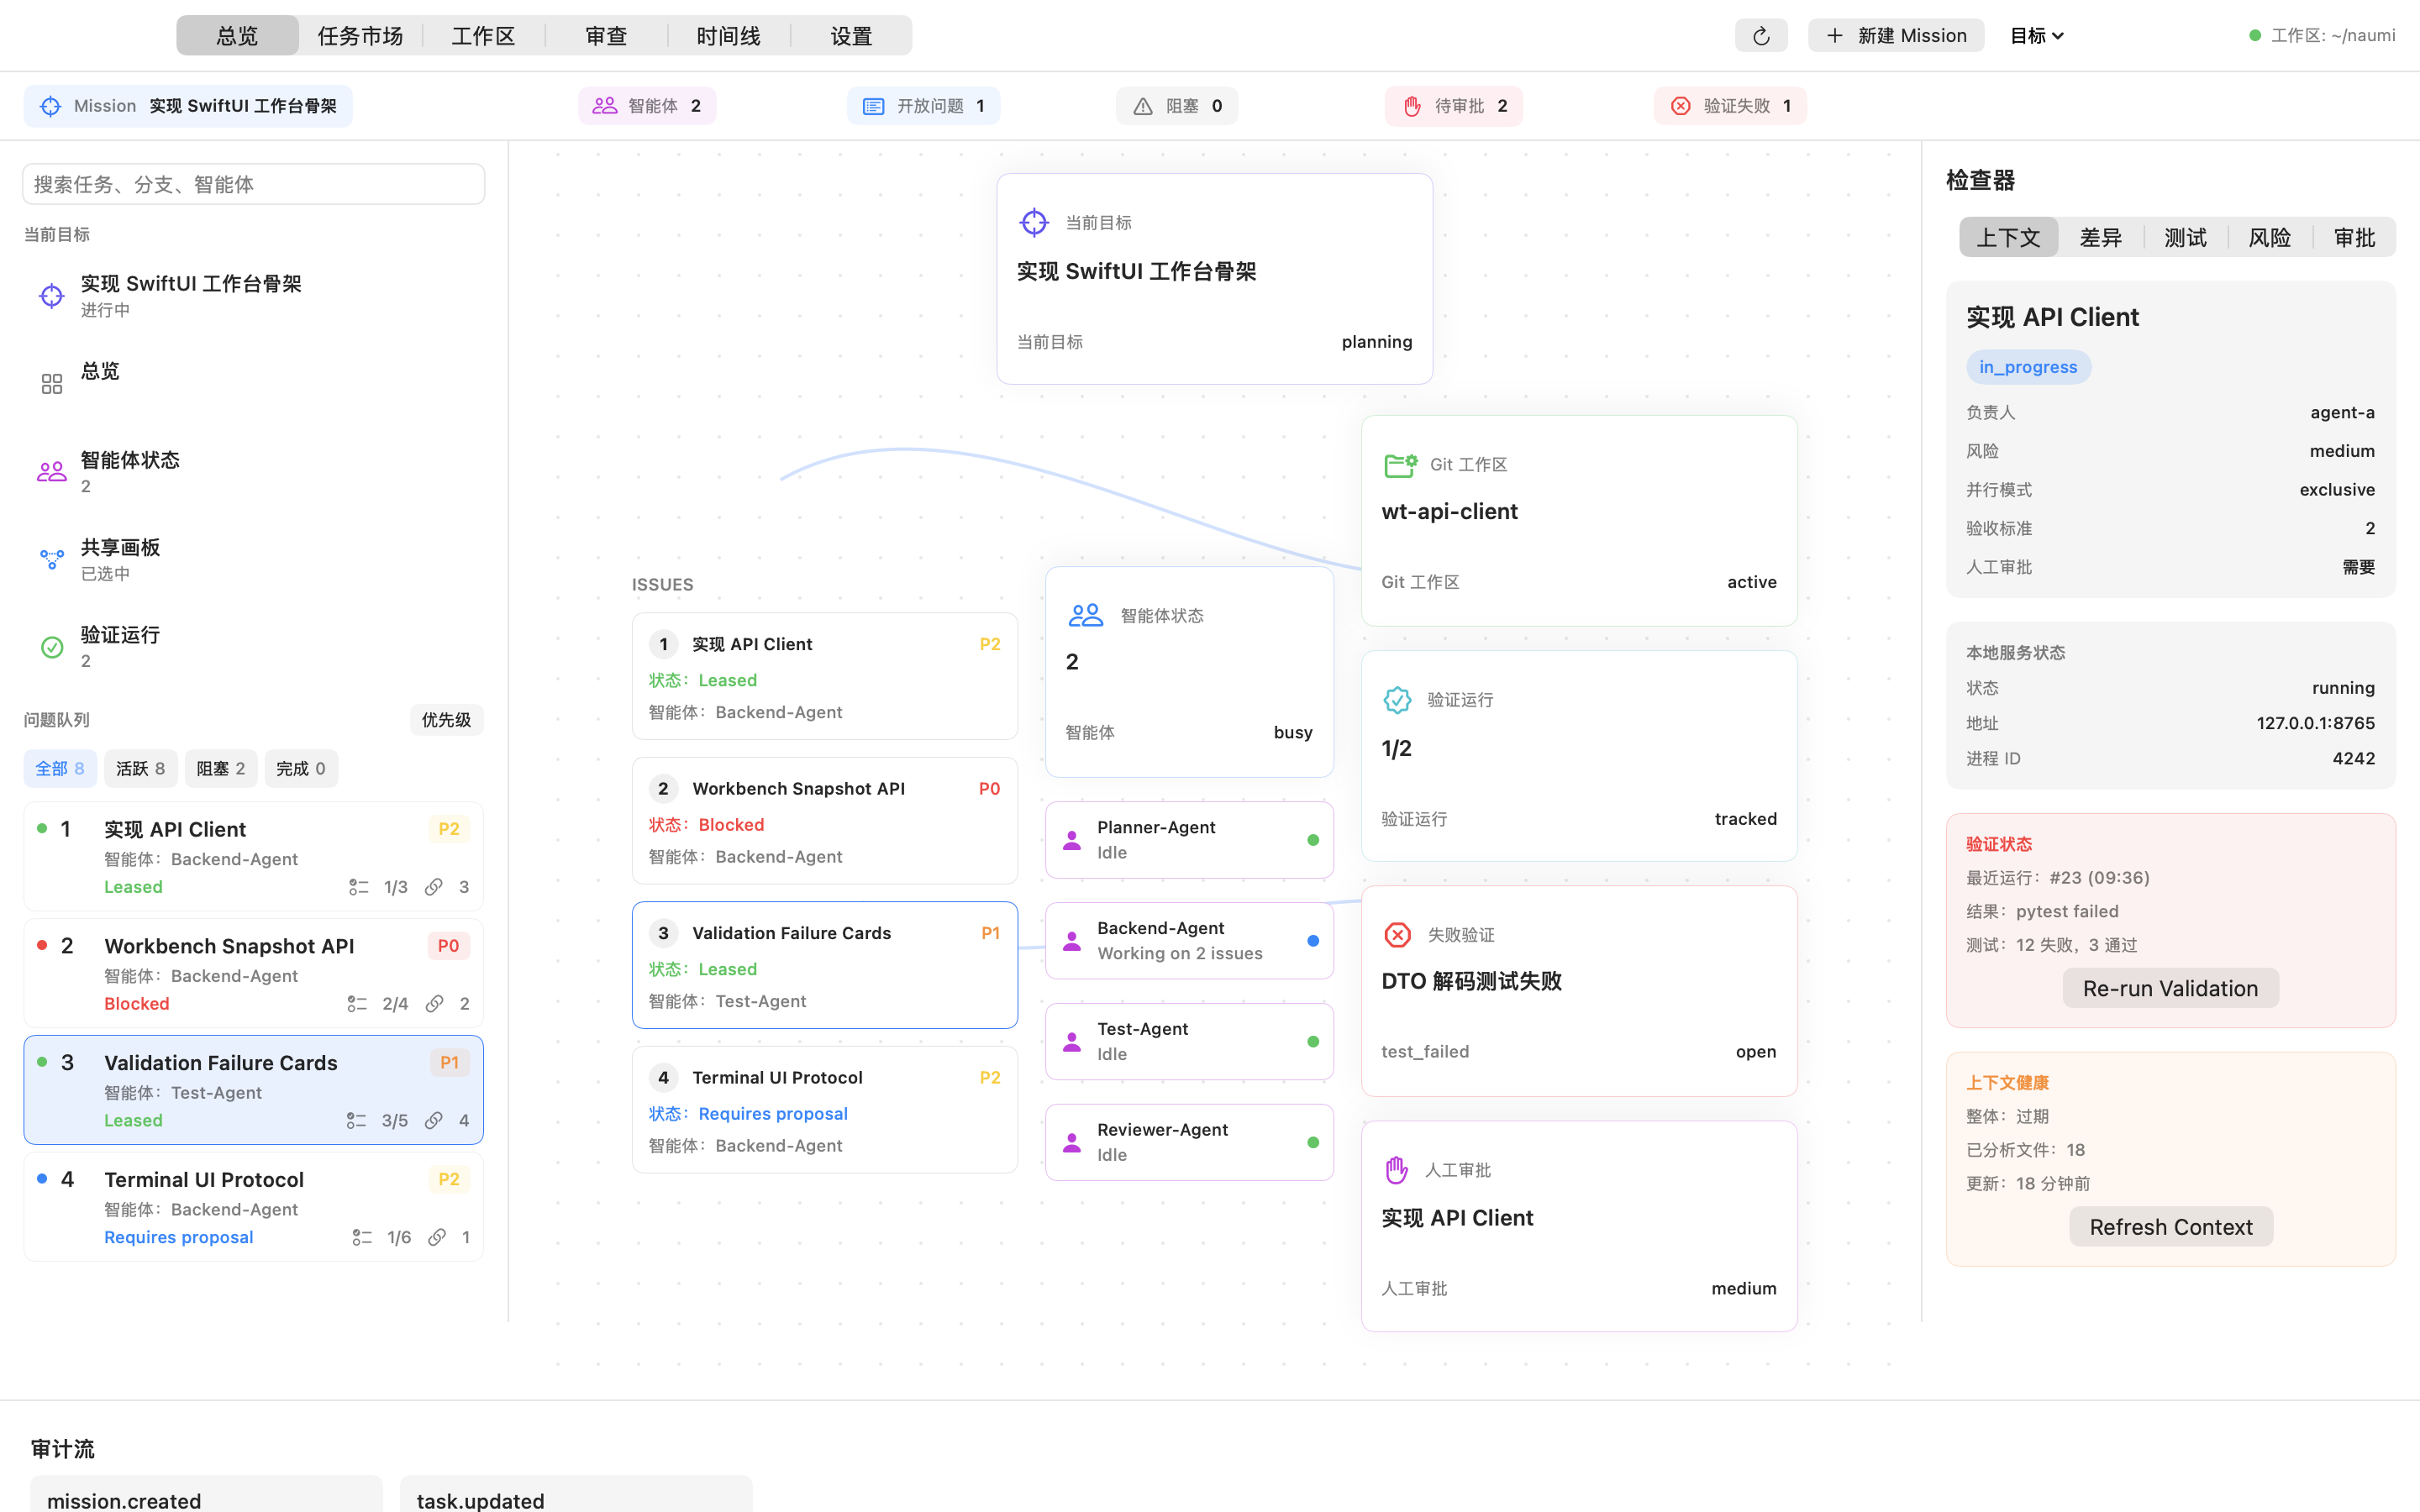
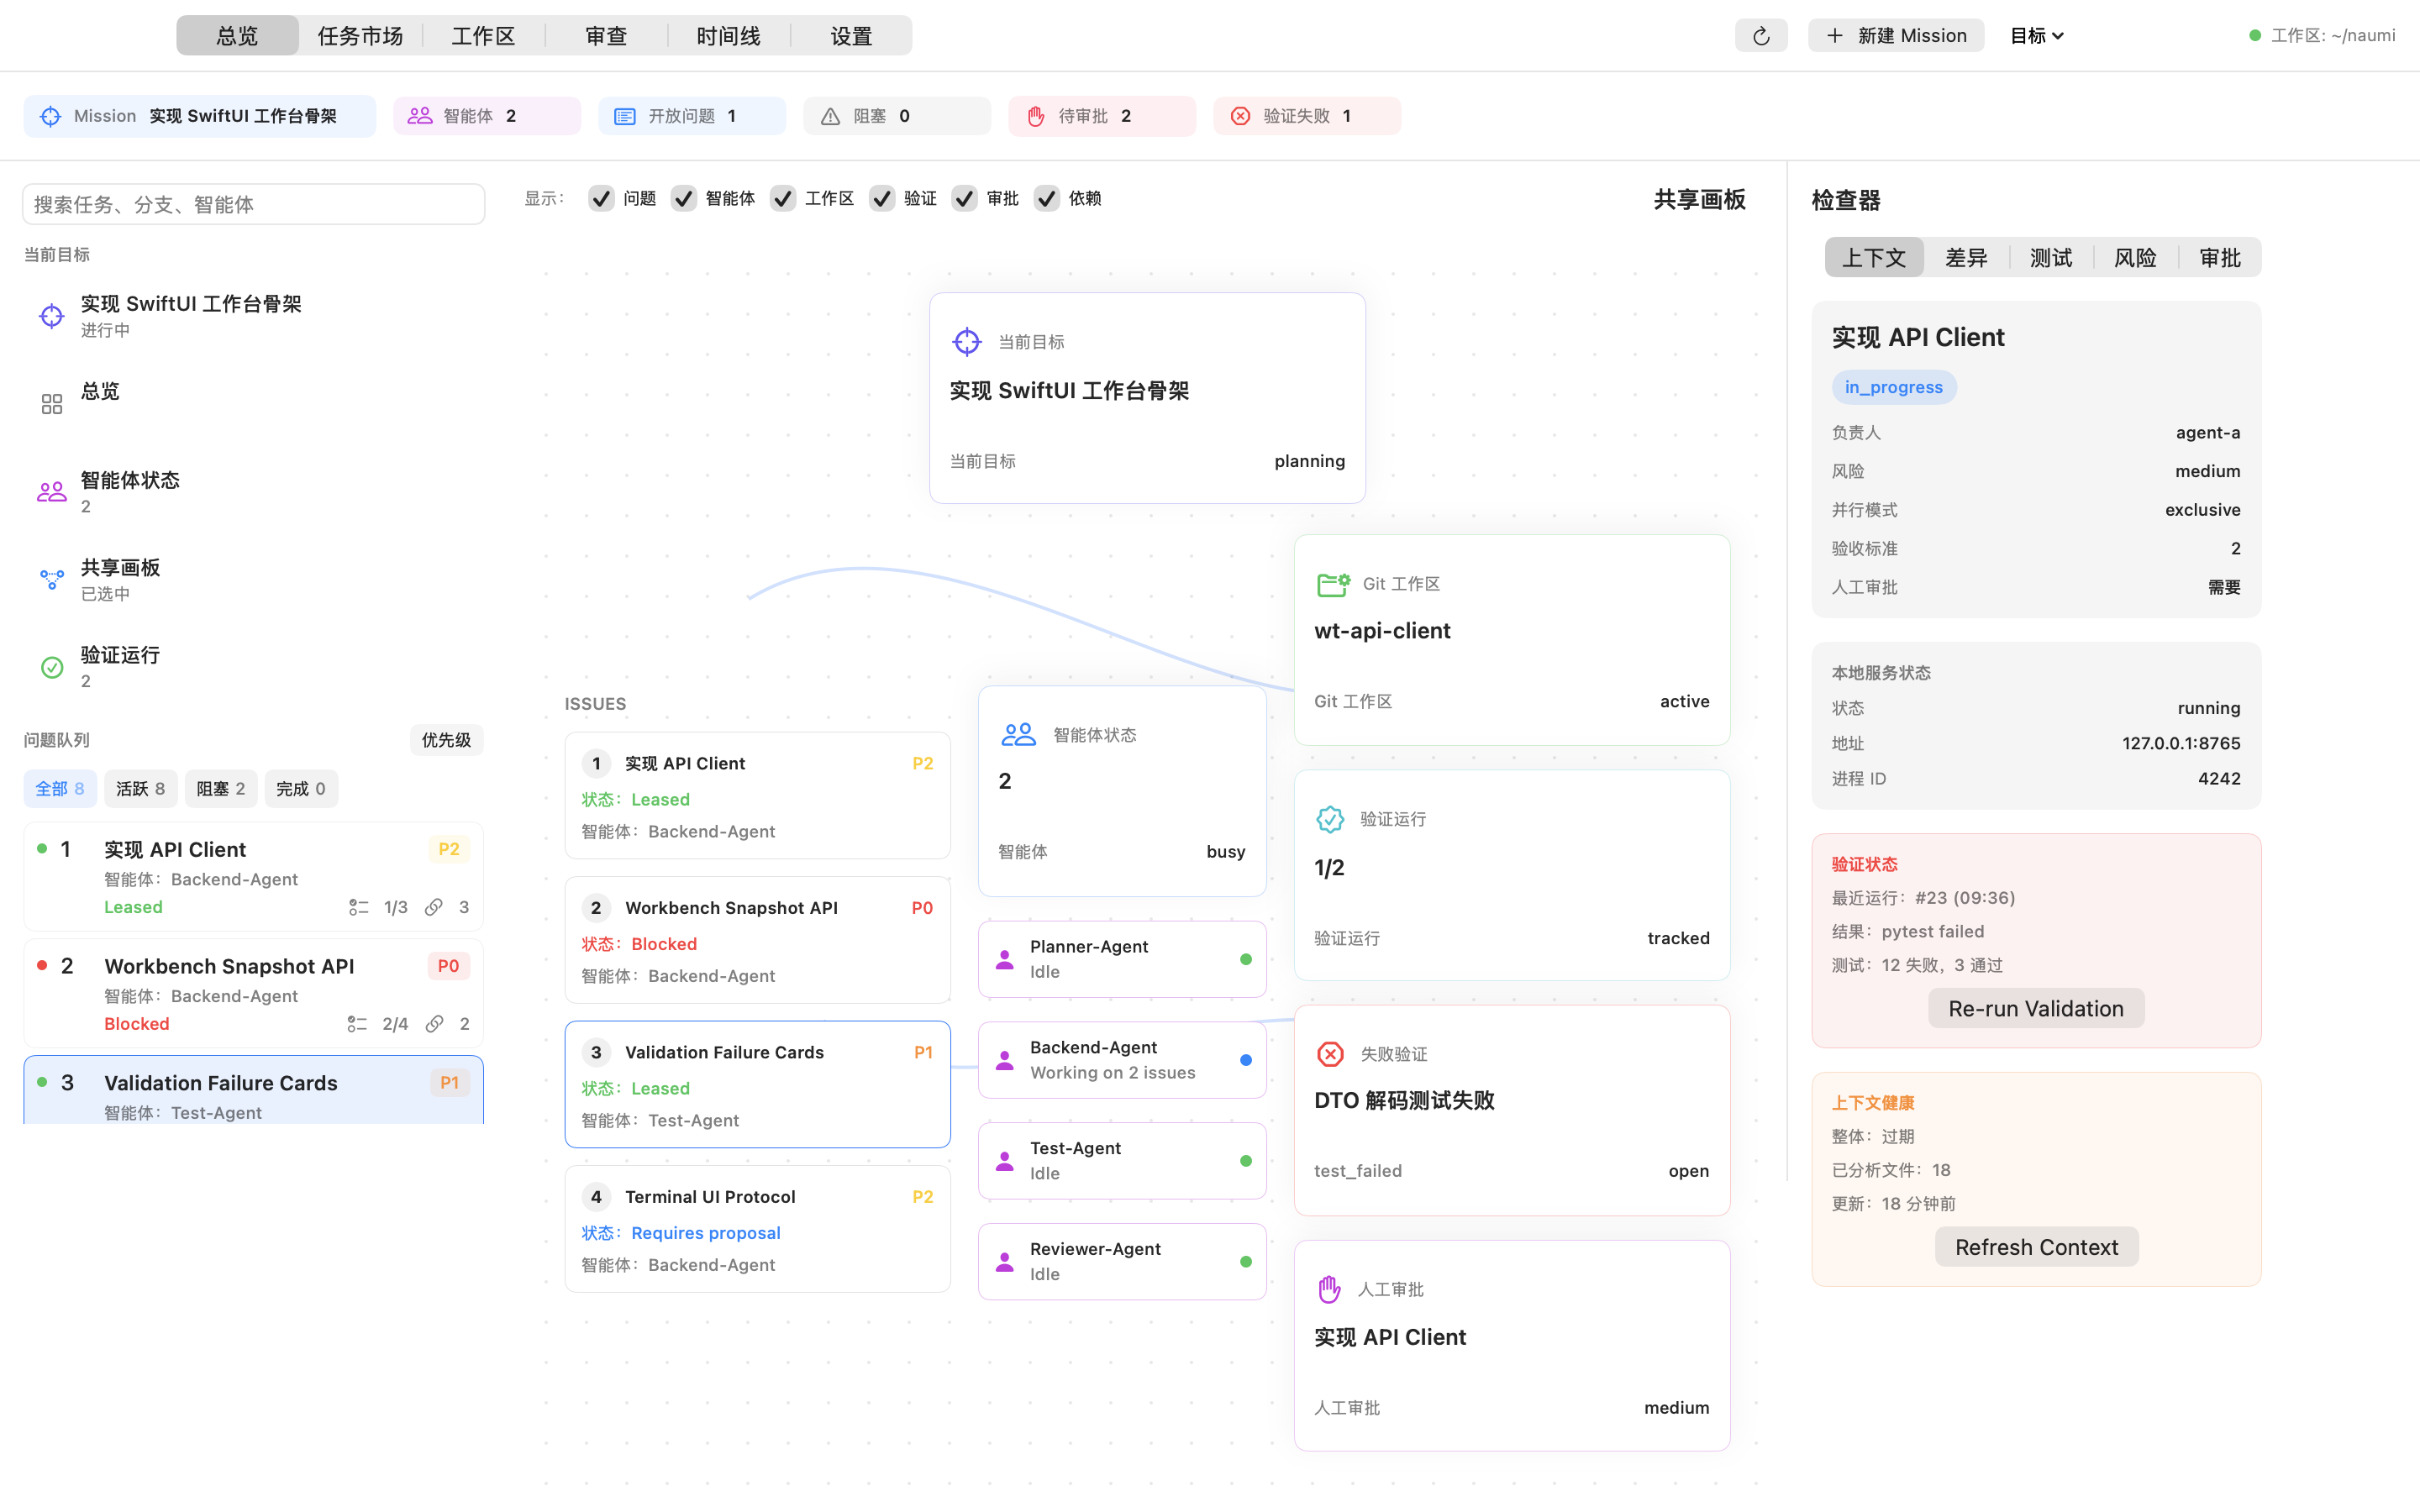
fix: stabilize mac workbench responsive layout

diff --git a/apps/macos/NaumiAgentWorkbench/Sources/NaumiAgentWorkbenchCore/Features/Reviews/ReviewsView.swift b/apps/macos/NaumiAgentWorkbench/Sources/NaumiAgentWorkbenchCore/Features/Reviews/ReviewsView.swift
@@ -20,28 +20,46 @@ public struct ReviewsView: View {
             snapshot: appState.snapshot
         )
         let selected = selectedReview(presentation)
+        let layout = WorkbenchScaledPageLayout.reviews
 
-        VStack(spacing: 0) {
-            pageHeader(selected: selected)
-            Divider()
+        GeometryReader { proxy in
+            let scale = CGFloat(layout.scale(for: Double(proxy.size.width)))
+            let scaledSize = layout.scaledSize(for: Double(proxy.size.width))
 
-            HStack(spacing: 0) {
-                reviewQueueRail(presentation)
-                    .frame(width: 304)
-                Divider()
-                reviewMain(presentation: presentation, selected: selected)
-                    .frame(maxWidth: .infinity, maxHeight: .infinity)
-                Divider()
-                reviewInspector(presentation: presentation, selected: selected)
-                    .frame(width: 296)
+            ZStack(alignment: .topLeading) {
+                reviewLayoutContent(presentation: presentation, selected: selected)
+                    .frame(width: layout.baseWidth, height: layout.baseHeight, alignment: .topLeading)
+                    .scaleEffect(scale, anchor: .topLeading)
+                    .frame(width: scaledSize.width, height: scaledSize.height, alignment: .topLeading)
             }
-
+            .frame(width: proxy.size.width, height: proxy.size.height, alignment: .topLeading)
+            .clipped()
         }
-        .frame(minWidth: 1180, minHeight: 720)
         .background(Color(nsColor: .windowBackgroundColor))
         .onAppear {
             selectedReviewID = selected.id
         }
+    }
+
+    private func reviewLayoutContent(
+        presentation: ReviewsDesignPresentation,
+        selected: ReviewDesignItem
+    ) -> some View {
+        HStack(spacing: 0) {
+            reviewQueueRail(presentation)
+                .frame(width: 304)
+            Divider()
+            reviewMain(presentation: presentation, selected: selected)
+                .frame(maxWidth: .infinity, maxHeight: .infinity)
+            Divider()
+            reviewInspector(presentation: presentation, selected: selected)
+                .frame(width: 296)
+        }
+        .frame(
+            width: WorkbenchScaledPageLayout.reviews.baseWidth,
+            height: WorkbenchScaledPageLayout.reviews.baseHeight,
+            alignment: .topLeading
+        )
     }
 
     private func selectedReview(_ presentation: ReviewsDesignPresentation) -> ReviewDesignItem {
@@ -51,33 +69,9 @@ public struct ReviewsView: View {
             ?? presentation.selectedReview
     }
 
-    private func pageHeader(selected: ReviewDesignItem) -> some View {
-        HStack(spacing: 12) {
-            Text(appState.locale == .zhCN
-                ? "审查：\(selected.title) (#\(selected.number))"
-                : "Review: \(selected.title) (#\(selected.number))"
-            )
-                .font(.system(size: 17, weight: .semibold))
-                .lineLimit(1)
-                .truncationMode(.tail)
-            Text(appState.locale == .zhCN ? "高风险：需要人工审批" : "High Risk: Human Approval Required")
-                .font(.caption)
-                .fontWeight(.medium)
-                .padding(.horizontal, 8)
-                .padding(.vertical, 4)
-                .background(Color.red.opacity(0.10))
-                .foregroundStyle(.red)
-                .clipShape(RoundedRectangle(cornerRadius: 5))
-            Spacer()
-        }
-        .padding(.horizontal, 18)
-        .frame(height: 48)
-        .background(Color(nsColor: .windowBackgroundColor))
-    }
-
     private func reviewQueueRail(_ presentation: ReviewsDesignPresentation) -> some View {
         VStack(alignment: .leading, spacing: 14) {
-            HStack {
+            HStack(spacing: 10) {
                 Text(AppStrings.Reviews.title(appState.locale))
                     .font(.system(size: 17, weight: .semibold))
                 Spacer()

diff --git a/apps/macos/NaumiAgentWorkbench/Sources/NaumiAgentWorkbenchCore/Features/Dashboard/DashboardView.swift b/apps/macos/NaumiAgentWorkbench/Sources/NaumiAgentWorkbenchCore/Features/Dashboard/DashboardView.swift
@@ -51,22 +51,46 @@ public struct DashboardView: View {
         snapshot: WorkbenchSnapshotDTO,
         presentation: DashboardSnapshotPresentation
     ) -> some View {
+        let layout = WorkbenchScaledPageLayout.dashboard
         let market = TaskMarketDesignPresentation(snapshot: snapshot)
 
-        return VStack(spacing: 0) {
-            HStack(spacing: 0) {
+        return GeometryReader { proxy in
+            let scale = CGFloat(layout.scale(for: Double(proxy.size.width)))
+            let scaledSize = layout.scaledSize(for: Double(proxy.size.width))
+
+            ZStack(alignment: .topLeading) {
+                workbenchLayoutContent(presentation: presentation, market: market)
+                    .frame(
+                        width: layout.baseWidth,
+                        height: layout.baseHeight,
+                        alignment: .topLeading
+                    )
+                    .scaleEffect(scale, anchor: .topLeading)
+                    .frame(width: scaledSize.width, height: scaledSize.height, alignment: .topLeading)
+            }
+            .frame(width: proxy.size.width, height: proxy.size.height, alignment: .topLeading)
+            .clipped()
+        }
+    }
+
+    private func workbenchLayoutContent(
+        presentation: DashboardSnapshotPresentation,
+        market: TaskMarketDesignPresentation
+    ) -> some View {
+        VStack(spacing: 0) {
+            HStack(alignment: .top, spacing: 0) {
                 workbenchLeftRail(presentation: presentation, market: market)
                     .frame(width: 302)
 
                 Divider()
 
                 sharedCanvas(presentation: presentation, market: market)
-                    .frame(minWidth: 620, maxWidth: .infinity, maxHeight: .infinity)
+                    .frame(minWidth: 620, maxWidth: .infinity, maxHeight: .infinity, alignment: .top)
 
                 Divider()
 
                 inspectorPanel(presentation: presentation)
-                    .frame(width: 296)
+                    .frame(width: 296, alignment: .top)
             }
 
             Divider()
@@ -74,7 +98,11 @@ public struct DashboardView: View {
             auditTrail(presentation: presentation)
                 .frame(height: 112)
         }
-        .frame(minWidth: 1180, minHeight: 720)
+        .frame(
+            width: WorkbenchScaledPageLayout.dashboard.baseWidth,
+            height: WorkbenchScaledPageLayout.dashboard.baseHeight,
+            alignment: .topLeading
+        )
     }
 
     private func workbenchHeader(presentation: DashboardSnapshotPresentation) -> some View {
@@ -334,7 +362,7 @@ public struct DashboardView: View {
                     .font(.system(size: 14, weight: .semibold))
             }
             .padding(.horizontal, 16)
-            .padding(.top, 14)
+            .frame(height: 44, alignment: .center)
 
             ZStack {
                 dottedCanvasBackground

diff --git a/apps/macos/NaumiAgentWorkbench/Sources/NaumiAgentWorkbenchCore/App/WorkbenchPageLayout.swift b/apps/macos/NaumiAgentWorkbench/Sources/NaumiAgentWorkbenchCore/App/WorkbenchPageLayout.swift
@@ -1,3 +1,4 @@
+import CoreGraphics
 import Foundation
 
 /// Shared layout constants for fixed workbench navigation pages.
@@ -24,5 +25,29 @@ public struct WorkbenchPageLayout: Equatable, Sendable {
 
     public func centralAvailableWidth(in windowWidth: Double) -> Double {
         windowWidth - railWidth - inspectorWidth
+    }
+}
+
+/// Scales a fixed visual design into the current window without clipping columns.
+public struct WorkbenchScaledPageLayout: Equatable, Sendable {
+    public let baseWidth: Double
+    public let baseHeight: Double
+
+    public static let dashboard = WorkbenchScaledPageLayout(baseWidth: 1360, baseHeight: 720)
+    public static let reviews = WorkbenchScaledPageLayout(baseWidth: 1360, baseHeight: 720)
+
+    public init(baseWidth: Double, baseHeight: Double) {
+        self.baseWidth = baseWidth
+        self.baseHeight = baseHeight
+    }
+
+    public func scale(for availableWidth: Double) -> Double {
+        guard baseWidth > 0 else { return 1 }
+        return min(1, max(0.1, availableWidth / baseWidth))
+    }
+
+    public func scaledSize(for availableWidth: Double) -> CGSize {
+        let scale = scale(for: availableWidth)
+        return CGSize(width: baseWidth * scale, height: baseHeight * scale)
     }
 }

diff --git a/apps/macos/NaumiAgentWorkbench/Sources/NaumiAgentWorkbenchCore/App/WorkbenchShellView.swift b/apps/macos/NaumiAgentWorkbench/Sources/NaumiAgentWorkbenchCore/App/WorkbenchShellView.swift
@@ -28,10 +28,10 @@ public struct WorkbenchShellView: View {
             Divider()
 
             routeView(for: appState.currentRoute)
-                .frame(maxWidth: .infinity, maxHeight: .infinity, alignment: .top)
+                .frame(maxWidth: .infinity, maxHeight: .infinity, alignment: .topLeading)
                 .clipped()
         }
-        .frame(minWidth: 1180, minHeight: 720)
+        .frame(minWidth: 900, minHeight: 620)
         .sheet(isPresented: $isPresentingMissionComposer) {
             MissionComposerSheet(
                 appState: environment.appState,
@@ -89,11 +89,7 @@ private struct GlobalStatusStrip: View {
         HStack(spacing: 10) {
             ForEach(presentation.items) { item in
                 statusItem(item)
-                    .frame(
-                        minWidth: item.label == "Mission" ? 220 : 96,
-                        maxWidth: item.label == "Mission" ? 320 : 150,
-                        alignment: .leading
-                    )
+                    .frame(width: item.label == "Mission" ? 210 : 112, alignment: .leading)
             }
 
             Spacer(minLength: 8)
@@ -124,6 +120,7 @@ private struct GlobalStatusStrip: View {
                 .lineLimit(1)
                 .truncationMode(.middle)
         }
+        .frame(maxWidth: .infinity, alignment: .leading)
         .padding(.horizontal, 9)
         .padding(.vertical, 5)
         .background(color(for: item.tone).opacity(0.08))
@@ -168,7 +165,7 @@ private struct TopNavigationBar: View {
             }
             .pickerStyle(.segmented)
             .labelsHidden()
-            .frame(minWidth: 430, idealWidth: 540, maxWidth: 620)
+            .frame(minWidth: 360, idealWidth: 520, maxWidth: 620)
             .layoutPriority(2)
 
             Spacer(minLength: 12)

diff --git a/apps/macos/NaumiAgentWorkbench/Tests/NaumiAgentWorkbenchCoreTests/WorkbenchPageLayoutTests.swift b/apps/macos/NaumiAgentWorkbench/Tests/NaumiAgentWorkbenchCoreTests/WorkbenchPageLayoutTests.swift
@@ -10,4 +10,14 @@ struct WorkbenchPageLayoutTests {
         #expect(layout.inspectorWidth == 306)
         #expect(layout.centralAvailableWidth(in: 1440) >= layout.operationsGridWidth)
     }
+
+    @Test func dashboardLayoutScalesDownWithoutExceedingAvailableWidth() {
+        let layout = WorkbenchScaledPageLayout.dashboard
+        let size = layout.scaledSize(for: 900)
+
+        #expect(layout.scale(for: 1440) == 1)
+        #expect(layout.scale(for: 900) < 1)
+        #expect(size.width <= 900)
+        #expect(size.height < layout.baseHeight)
+    }
 }

diff --git a/apps/macos/NaumiAgentWorkbench/Sources/NaumiAgentWorkbenchCore/App/WorkbenchShellPresentation.swift b/apps/macos/NaumiAgentWorkbench/Sources/NaumiAgentWorkbenchCore/App/WorkbenchShellPresentation.swift
@@ -15,7 +15,7 @@ public struct WorkbenchShellPresentation: Equatable, Sendable {
         placesNavigationBelowTitleBar: Bool = true,
         leadingContentInset: Double = 14,
         topNavigationHeight: Double = 42,
-        globalStatusHeight: Double = 40,
+        globalStatusHeight: Double = 52,
         navigationRoutes: [AppRoute] = AppRoute.topNavigationRoutes
     ) {
         self.showsSyntheticWindowControls = showsSyntheticWindowControls

diff --git a/apps/macos/NaumiAgentWorkbench/Tests/NaumiAgentWorkbenchCoreTests/WorkbenchShellPresentationTests.swift b/apps/macos/NaumiAgentWorkbench/Tests/NaumiAgentWorkbenchCoreTests/WorkbenchShellPresentationTests.swift
@@ -10,7 +10,7 @@ struct WorkbenchShellPresentationTests {
         #expect(presentation.placesNavigationBelowTitleBar == true)
         #expect(presentation.leadingContentInset == 14)
         #expect(presentation.topNavigationHeight == 42)
-        #expect(presentation.globalStatusHeight == 40)
+        #expect(presentation.globalStatusHeight == 52)
         #expect(presentation.navigationRoutes == AppRoute.topNavigationRoutes)
     }
 }